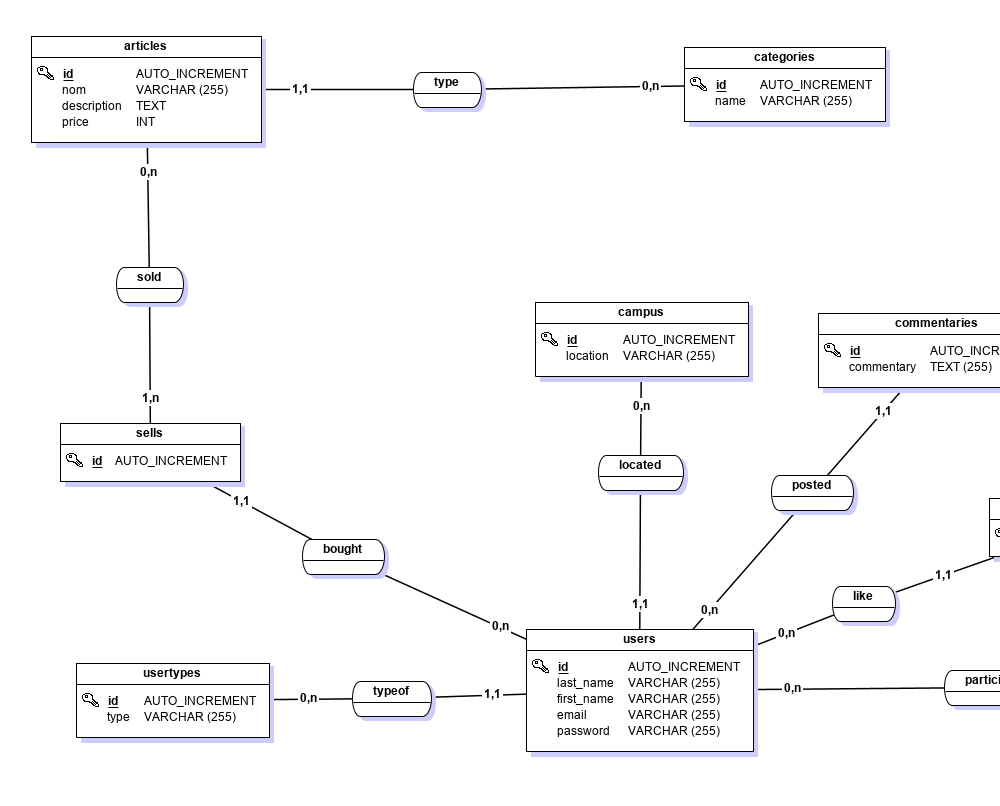
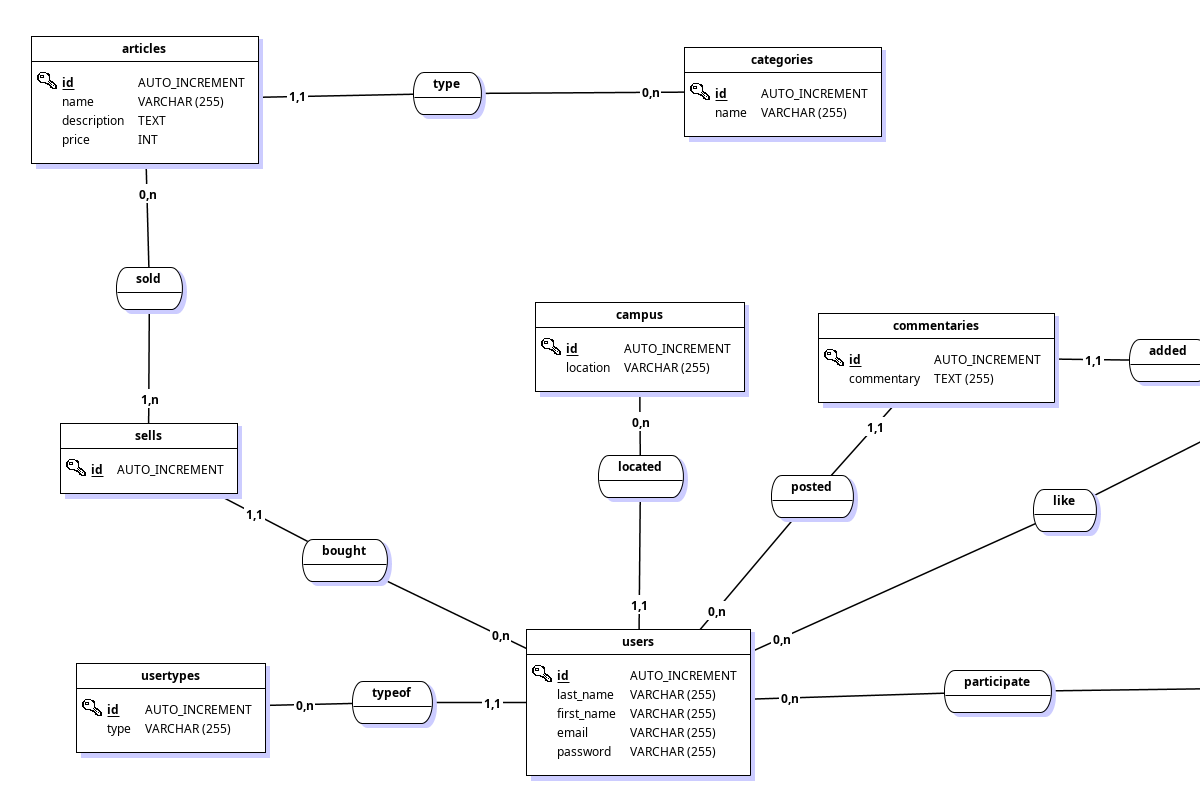
adding article

diff --git a/api/controllers/articles.js b/api/controllers/articles.js
@@ -1,0 +1,46 @@
+const Articles = require('../models').articles;
+const Categories = require('../models').categories;
+module.exports = {
+    create(req, res) {
+        Articles.findOrCreate({where: req.body, defaults: req.body})
+            .then(result => {
+                if(result[1]) {
+                    res.status(201).send('article created');
+                }
+                else {
+                    res.status(400).send('article already exists');
+                }
+            });
+    },
+    update(req, res) {
+        Articles.update(req.body, {where: req.params})
+            .then(affected => {
+                if(affected[0]) {
+                    res.status(200).send('article updated');
+                }
+                else {
+                    res.status(400).send('article not updated');
+                }
+            });
+    },
+    get(req, res) {
+        Articles.findOne({where: req.params, include: [Categories]}).then(result => {
+            if(result == null) {
+                res.status(404).send('article not found');
+            }
+            else {
+                res.status(200).send(result);
+            }
+        });
+    },
+    delete(req, res) {
+        Articles.destroy({where: req.params}).then(result => {
+            if(result === 1) {
+                res.status(205).send('article deleted');
+            }
+            else {
+                res.status(404).send('article not found');
+            }
+        });
+    }
+};

diff --git a/api/routes/index.js b/api/routes/index.js
@@ -1,4 +1,6 @@
-const categoriesController = require('../controllers').categories;
+const controller = require('../controllers');
+const categoriesController = controller.categories;
+const articleController = controller.articles;
 
 module.exports = (app) => {
     app.get('/api', (req, res) => res.status(200).send({
@@ -6,8 +8,12 @@ module.exports = (app) => {
     }));
 
     app.post('/api/category', categoriesController.create);
-
     app.put('/api/category/:id', categoriesController.update);
     app.get('/api/category/:id', categoriesController.get);
     app.delete('/api/category/:id', categoriesController.delete);
+
+    app.post('/api/article', articleController.create);
+    app.put('/api/article/:id', articleController.update);
+    app.get('/api/article/:id', articleController.get);
+    app.delete('/api/article/:id', articleController.delete);
 };

diff --git a/api/migrations/20191110202357-create-articles.js b/api/migrations/20191110202357-create-articles.js
@@ -1,0 +1,33 @@
+'use strict';
+module.exports = {
+  up: (queryInterface, Sequelize) => {
+    return queryInterface.createTable('articles', {
+      id: {
+        allowNull: false,
+        autoIncrement: true,
+        primaryKey: true,
+        type: Sequelize.INTEGER
+      },
+      name: {
+        type: Sequelize.STRING
+      },
+      description: {
+        type: Sequelize.STRING
+      },
+      price: {
+        type: Sequelize.INTEGER
+      },
+      createdAt: {
+        allowNull: false,
+        type: Sequelize.DATE
+      },
+      updatedAt: {
+        allowNull: false,
+        type: Sequelize.DATE
+      }
+    });
+  },
+  down: (queryInterface, Sequelize) => {
+    return queryInterface.dropTable('Articles');
+  }
+};

diff --git a/api/models/articles.js b/api/models/articles.js
@@ -1,0 +1,12 @@
+'use strict';
+module.exports = (sequelize, DataTypes) => {
+  const Articles = sequelize.define('articles', {
+    name: DataTypes.STRING,
+    description: DataTypes.STRING,
+    price: DataTypes.INTEGER
+  }, {});
+  Articles.associate = function(models) {
+    Articles.belongsTo(models.categories);
+  };
+  return Articles;
+};

diff --git a/api/controllers/categories.js b/api/controllers/categories.js
@@ -12,7 +12,7 @@ module.exports = {
             });
     },
     update(req, res) {
-        Categories.update({name: req.body.name}, {where: req.params})
+        Categories.update(req.body, {where: req.params})
             .then(affected => {
                 console.log(affected);
                 if(affected[0]) {

diff --git a/api/models/categories.js b/api/models/categories.js
@@ -4,7 +4,7 @@ module.exports = (sequelize, DataTypes) => {
     name: DataTypes.STRING,
   }, {});
   Categories.associate = function(models) {
-
+    Categories.hasMany(models.articles);
   };
   return Categories;
 };

diff --git a/api/controllers/index.js b/api/controllers/index.js
@@ -1,4 +1,6 @@
 const categories = require('./categories');
+const articles = require('./articles');
 module.exports = {
-    categories
+    categories,
+    articles
 };
